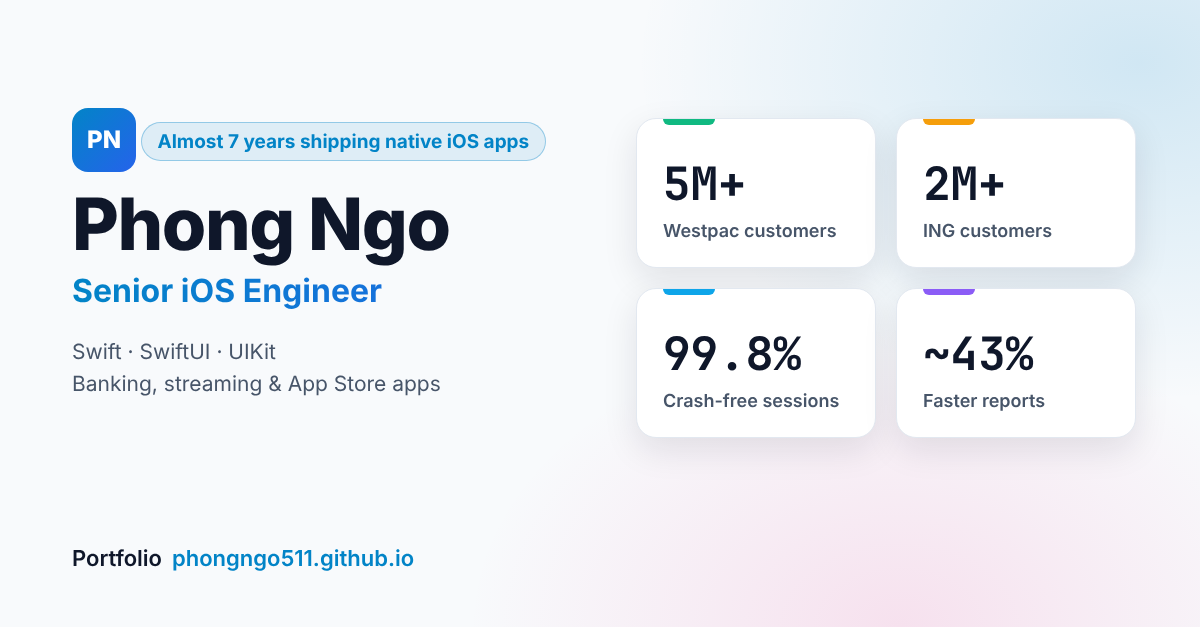
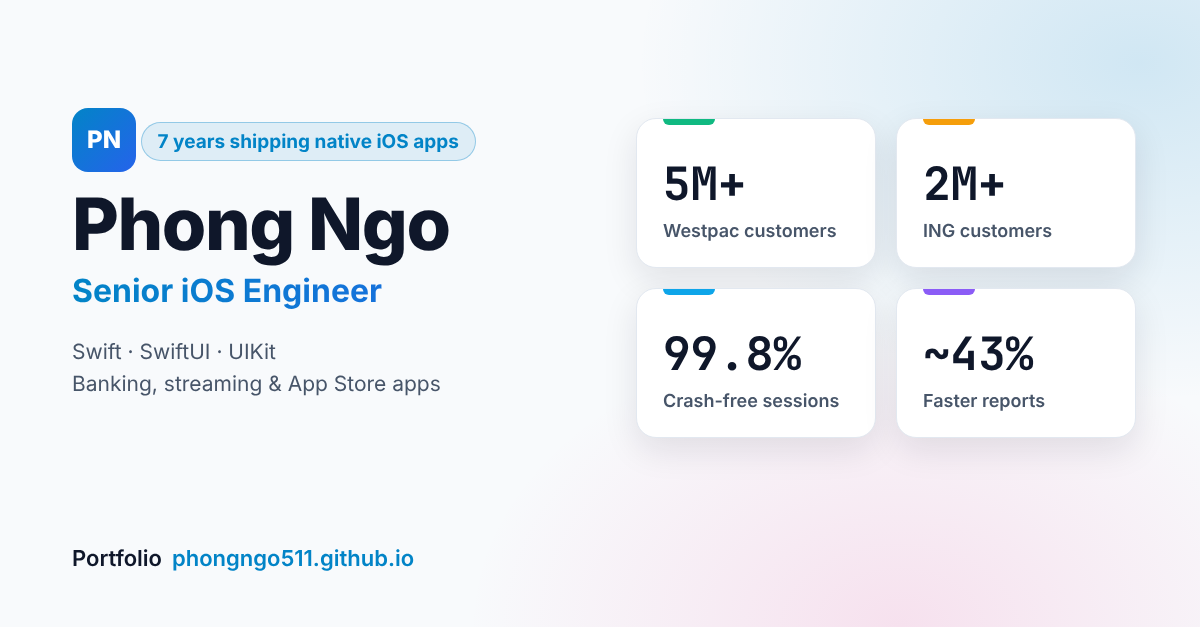
7 years
Claude-Session: https://claude.ai/code/session_01CYYCzkJPLfDXWfpqzRLACd

Changed region(s): [[0.1233, 0.1818, 0.4625, 0.2727]]

diff --git a/index.html b/index.html
@@ -4,7 +4,7 @@
   <meta charset="utf-8">
   <meta name="viewport" content="width=device-width, initial-scale=1">
   <title>Phong Ngo — Senior iOS Engineer</title>
-  <meta name="description" content="Portfolio of Phong Ngo, Senior iOS Engineer in Sydney with almost 7 years building native apps in Swift, UIKit and SwiftUI for Westpac, ING, Paravi and more.">
+  <meta name="description" content="Portfolio of Phong Ngo, Senior iOS Engineer in Sydney with 7 years building native apps in Swift, UIKit and SwiftUI for Westpac, ING, Paravi and more.">
   <meta property="og:title" content="Phong Ngo — Senior iOS Engineer">
   <meta property="og:description" content="Senior iOS Engineer in Sydney. Swift, SwiftUI, UIKit. Banking apps at Westpac and ING, Paravi streaming for iOS and tvOS, and WedKit on the App Store.">
   <meta property="og:type" content="profile">
@@ -67,7 +67,7 @@
 
   <!-- HERO -->
   <section class="wrap hero">
-    <p class="pill"><svg class="ic"><use href="#i-phone"/></svg> Almost 7 years shipping native iOS apps</p>
+    <p class="pill"><svg class="ic"><use href="#i-phone"/></svg> 7 years shipping native iOS apps</p>
     <h1>Phong Ngo</h1>
     <p class="subtitle">Senior iOS Engineer — Swift, SwiftUI &amp; UIKit</p>
     <p class="lead">
